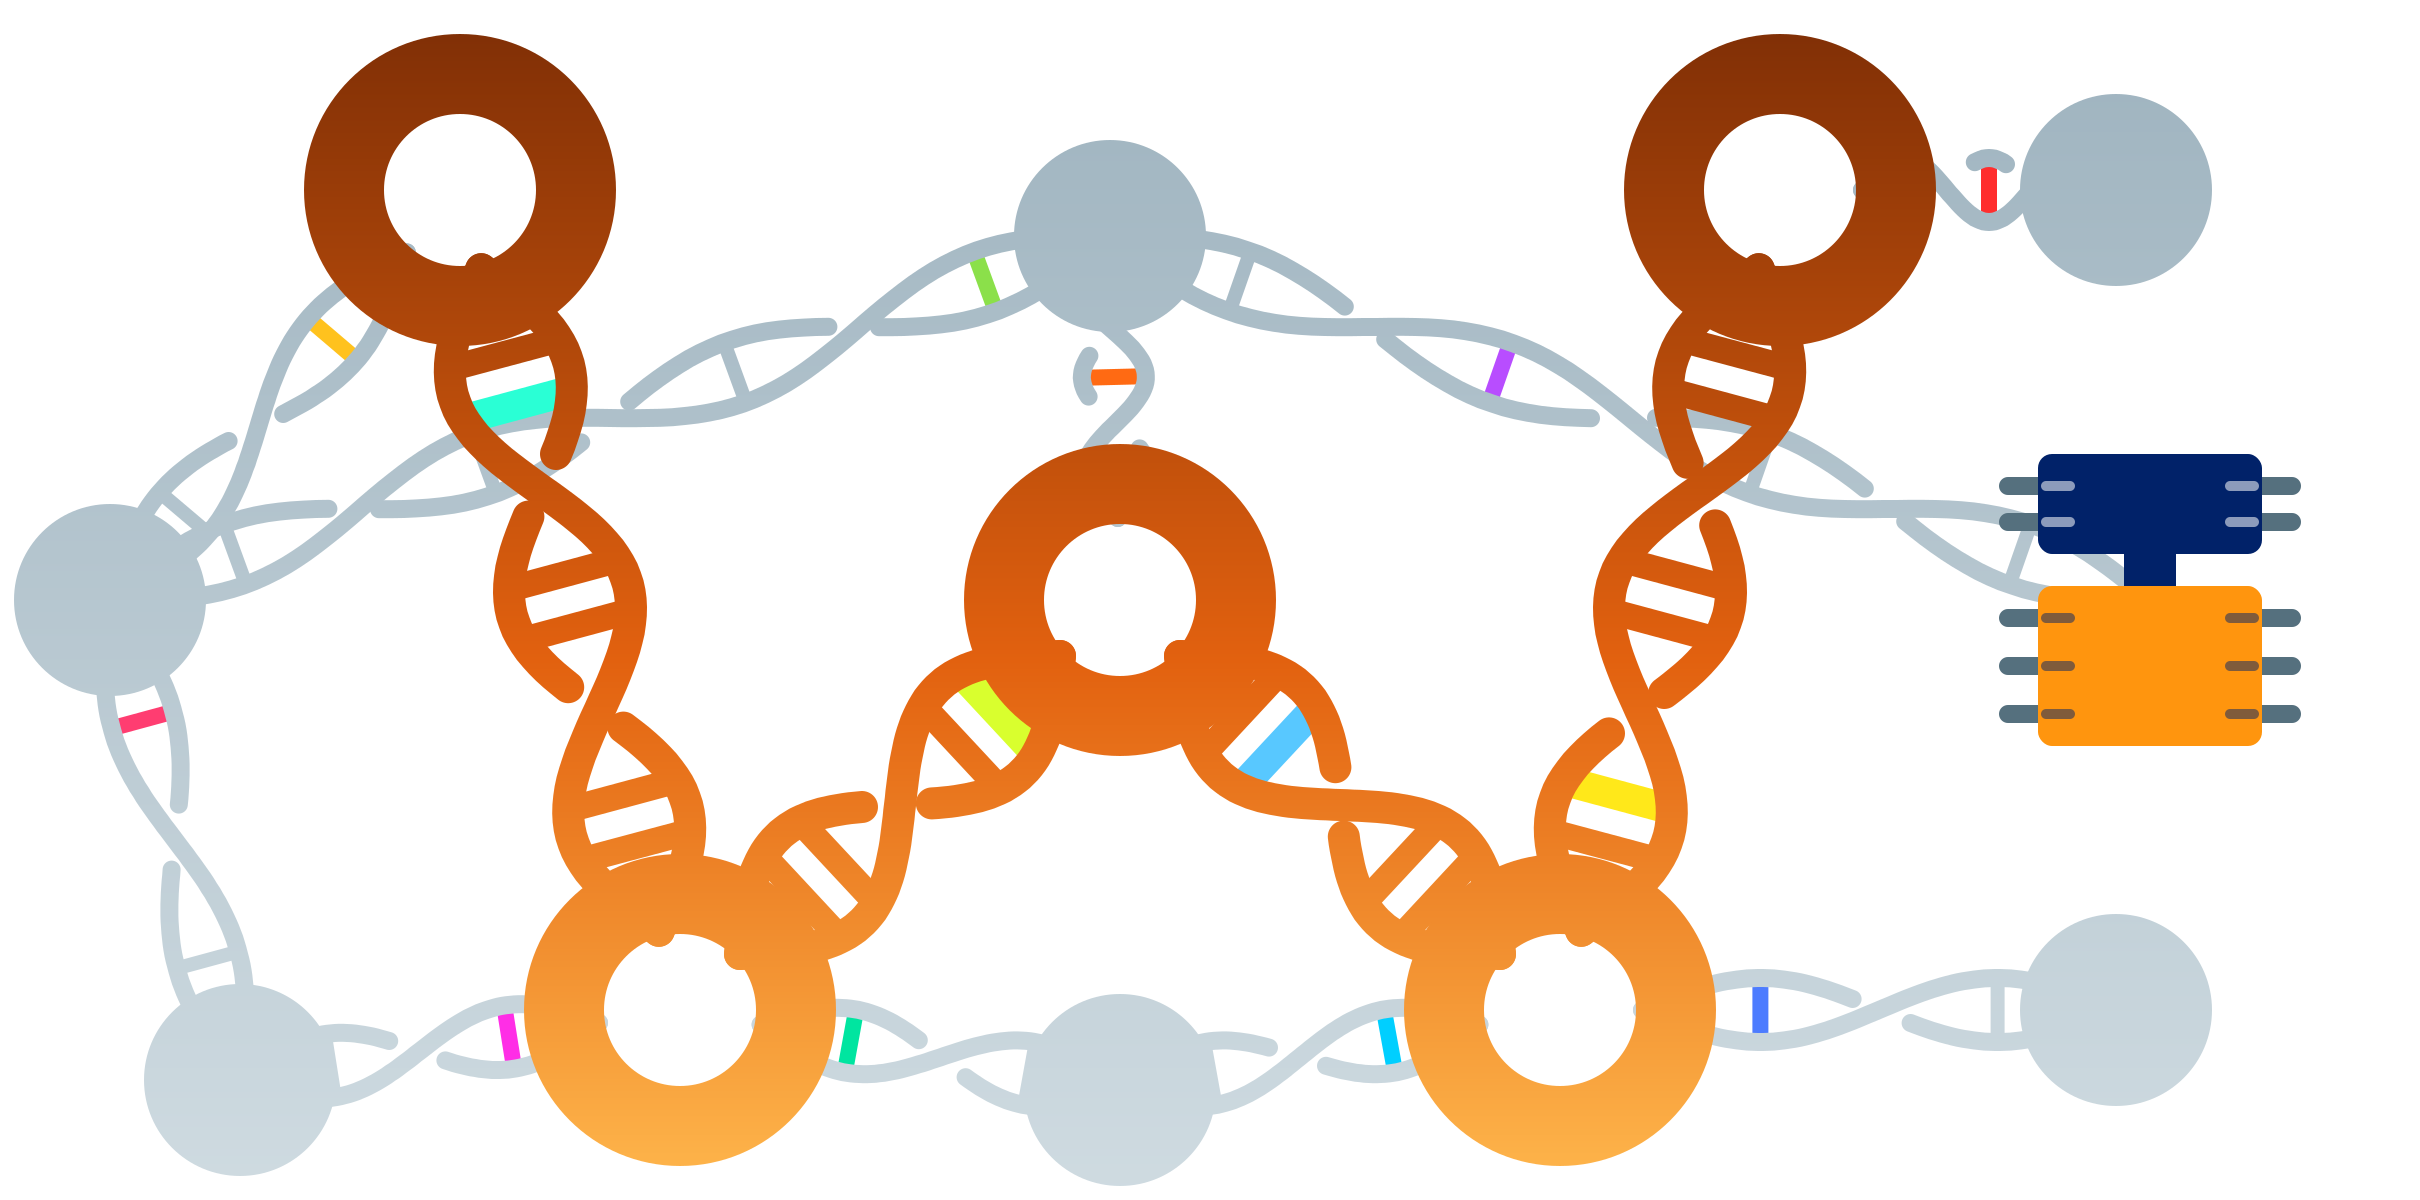
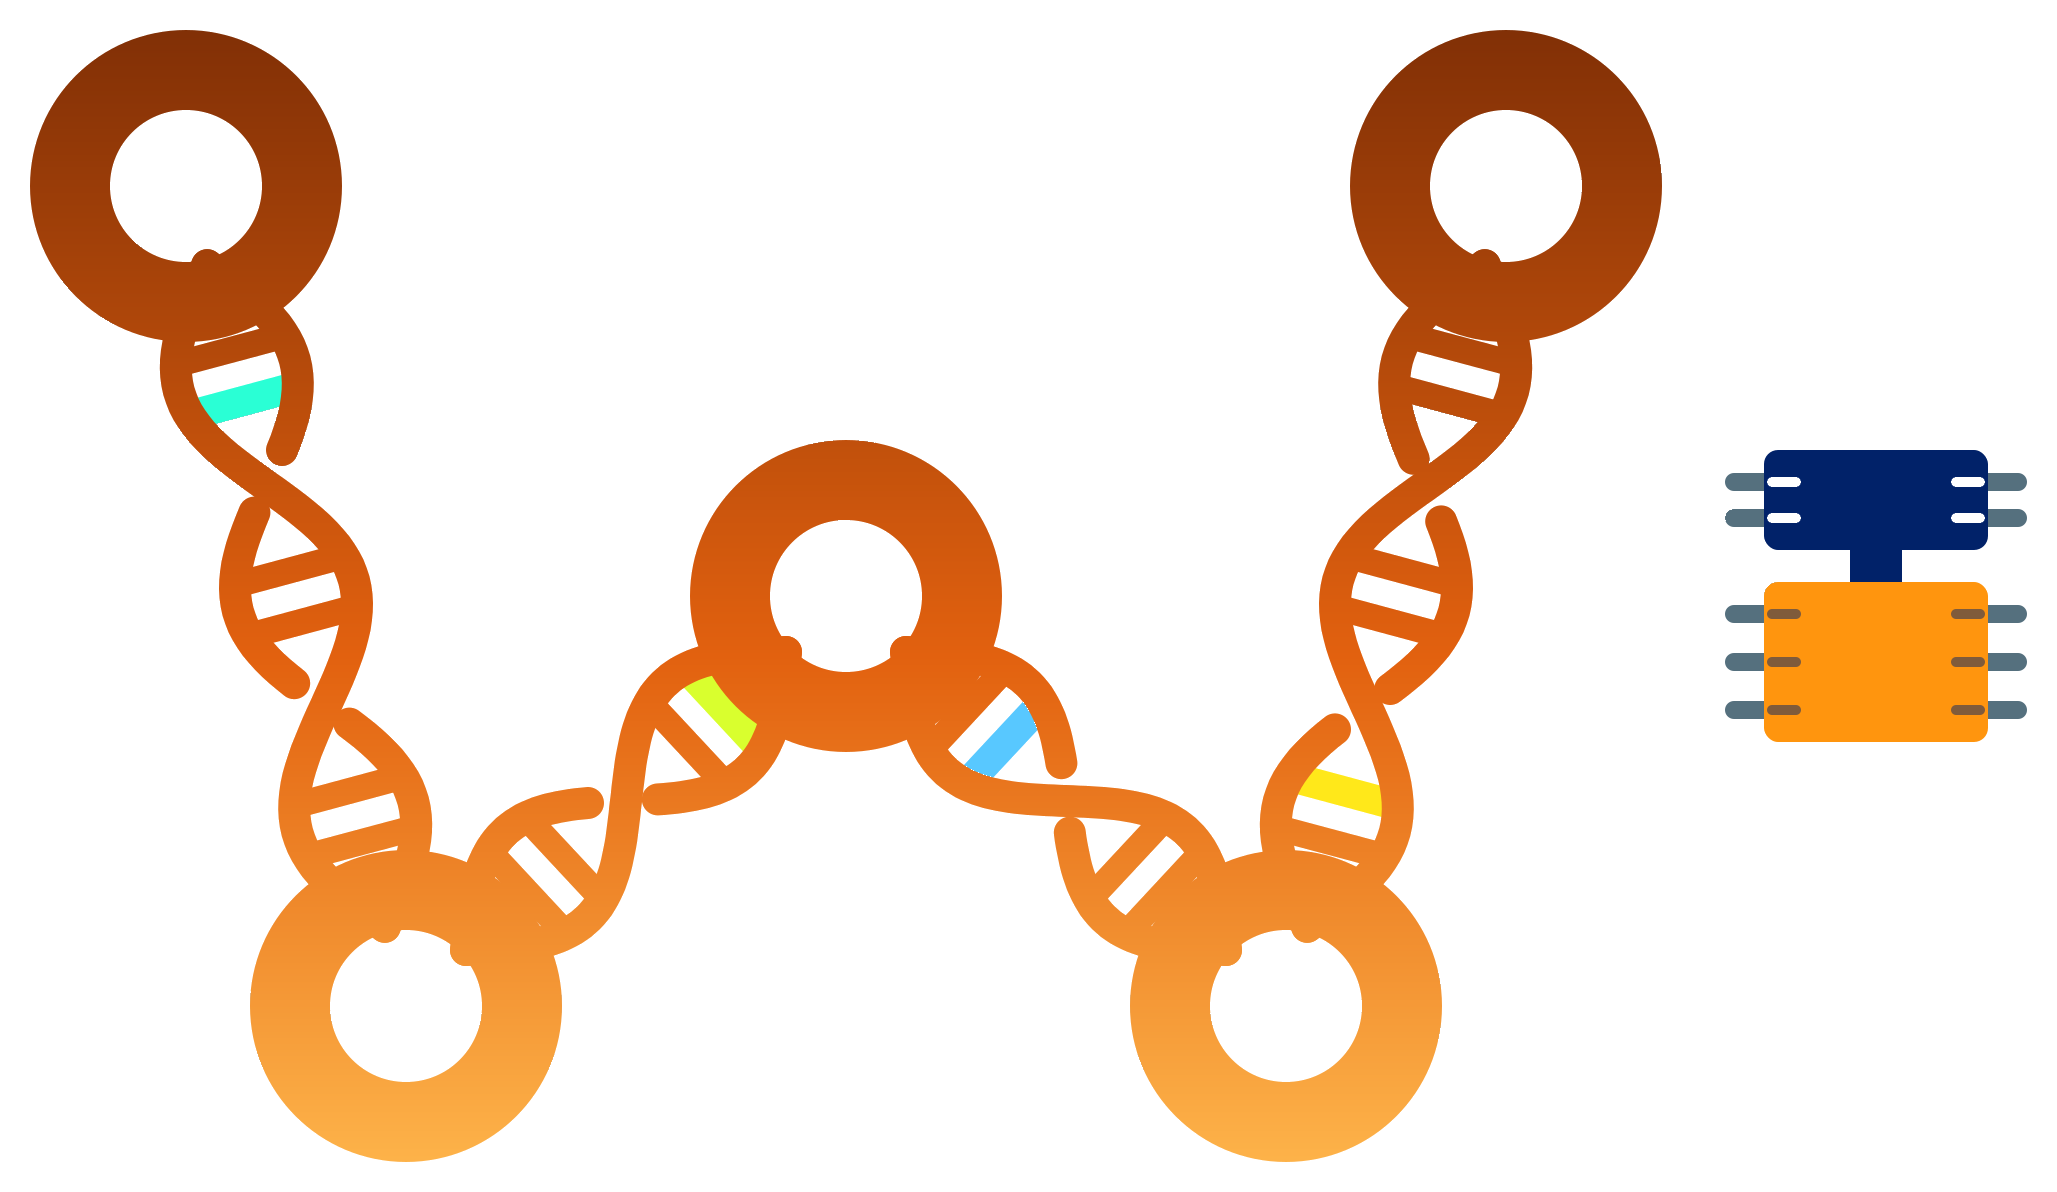
update

diff --git a/index.html b/index.html
@@ -15,7 +15,7 @@
   </head>
   <body>
     <section class="page-header">
-      <h1 class="project-name"><a href="https://gomezabajo.github.io/Wodel4diac" style="color: #FFFFEE;"><img src="images/wodel4diac.png" width="224" height="120" alt="Wodel4diac logo"/><br />Wodel4diac</a></h1>
+      <h1 class="project-name"><a href="https://gomezabajo.github.io/Wodel4diac" style="color: #FFFFEE;"><img src="images/wodel4diac.png" width="210" height="120" alt="Wodel4diac logo"/><br />Wodel4diac</a></h1>
       <h2 class="project-tagline">A domain-specific language for model mutation &mdash; compatible with Eclipse 4diac</h2>
       <a href="https://github.com/gomezabajo/Wodel4diac" class="btn">View on GitHub</a>
 	  <a href="https://raw.githubusercontent.com/gomezabajo/Wodel4diac/main/wodel.updatesite" class="btn">Update Site</a>

diff --git a/README.md b/README.md
@@ -1,6 +1,6 @@
 <p align="center">
   <a href="https://github.com/gomezabajo/Wodel4diac">
-    <img src="https://gomezabajo.github.io/Wodel/images/wodel4diac.png" width="224" height="120" alt="Wodel4diac logo" />
+    <img src="https://gomezabajo.github.io/Wodel/images/wodel4diac_w_red.png" width="210" height="120" alt="Wodel4diac logo" />
   </a>
 </p>
 
